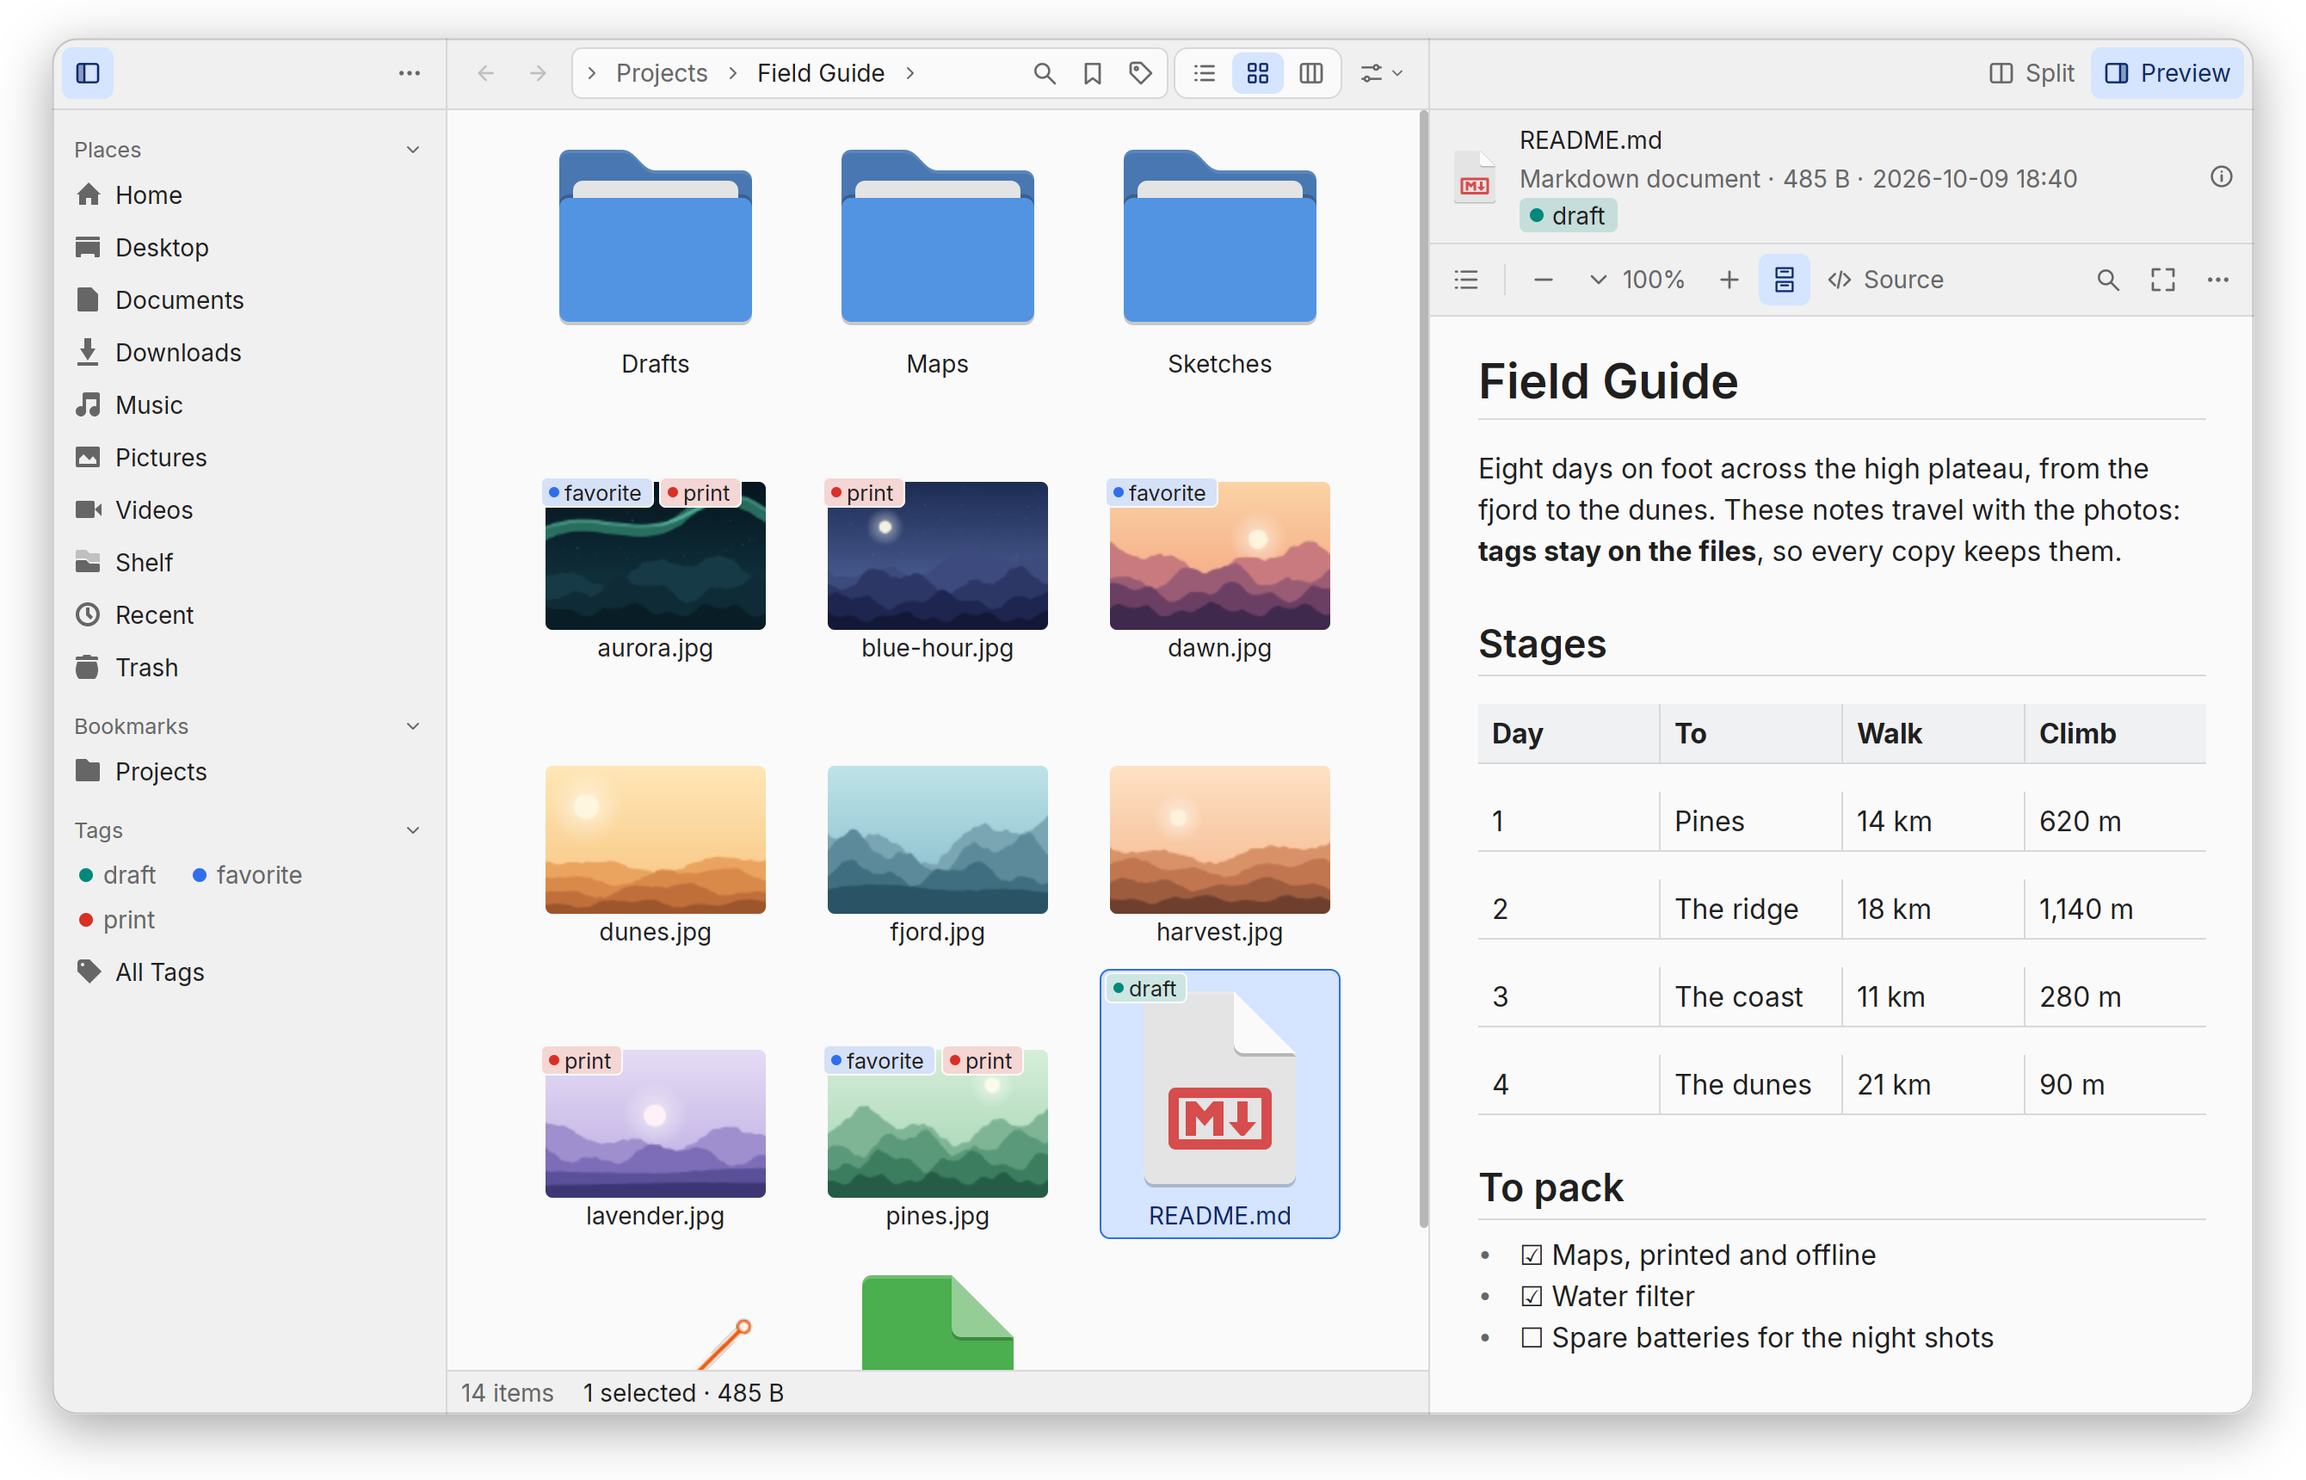
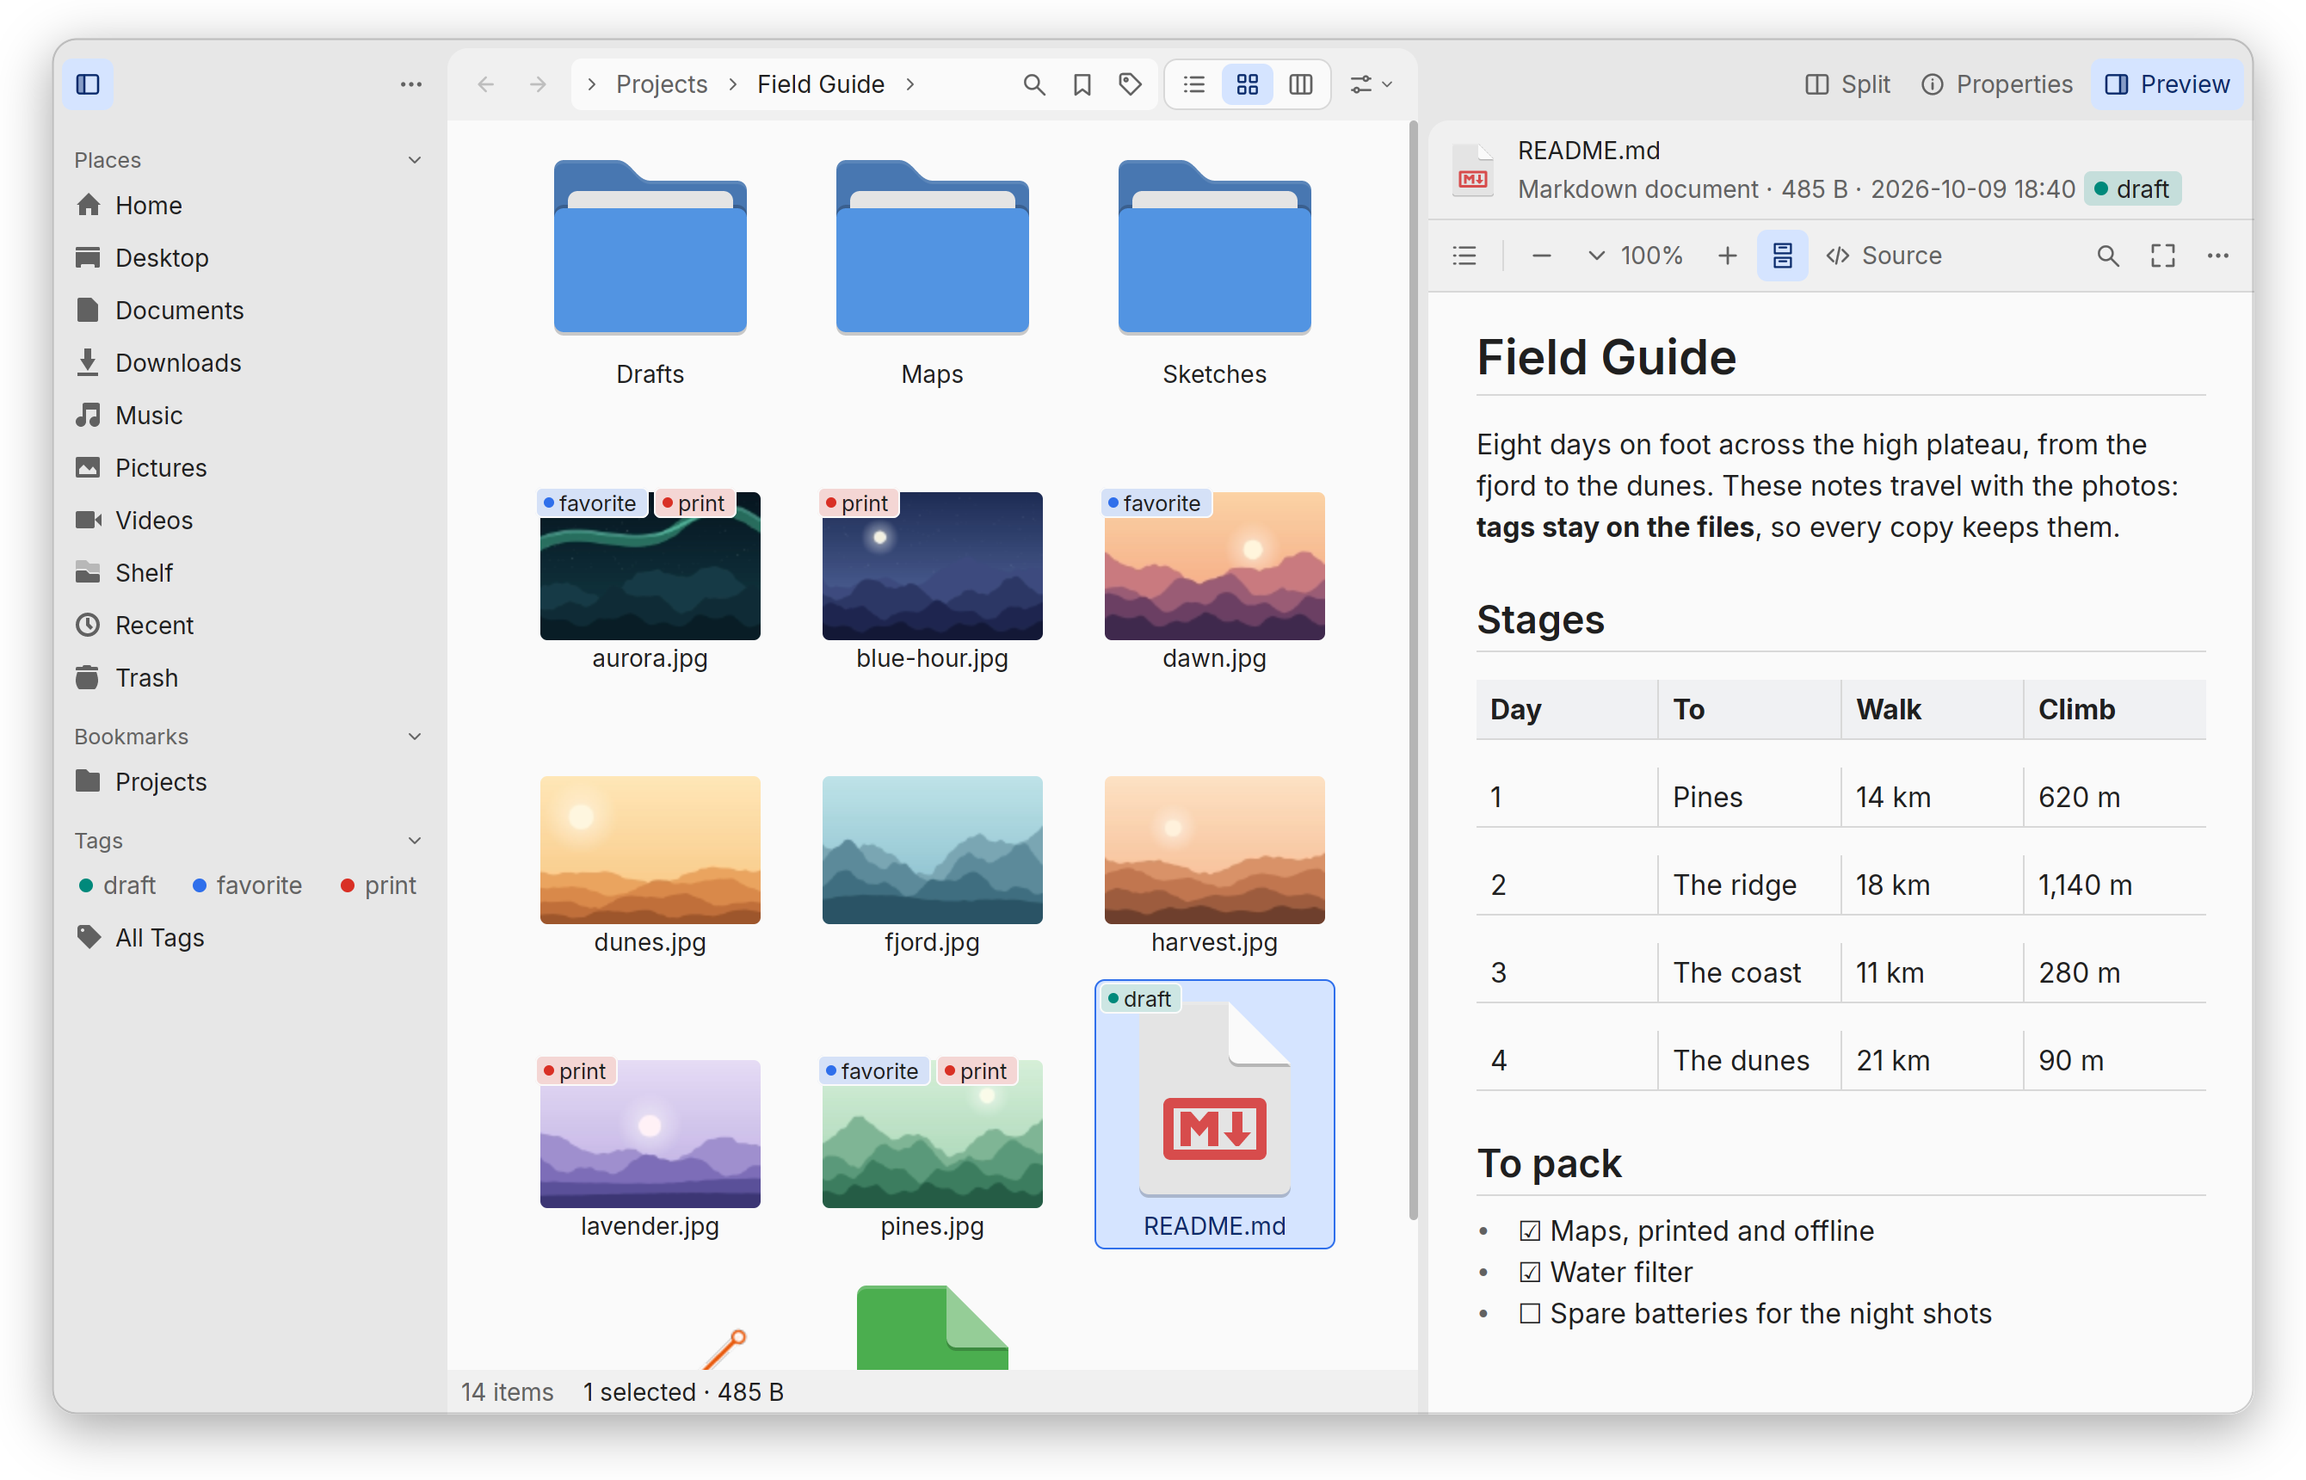
Make Cards the default; accept ADR-123
Cards (ui.cards) is on by default (settings::CARDS_DEFAULT, read by the
switch and Theme::resolve). Off, the window is apart by lines as in
earlier versions: kept as a choice, working but not grown; an area
added is designed as a card first, and the choice is asked again after
a release or two (ADR-123, "Kept, the default").

The switch's description says what it does now and what off gives. The
README's screenshots are made again, in Cards.

fmt, clippy on skwir-ui, its tests (567).

diff --git a/crates/ui/src/settings.rs b/crates/ui/src/settings.rs
@@ -76,6 +76,9 @@ pub const FILES_OPACITY_KEY: &str = "ui.files_background_opacity";
 pub const PREVIEW_OPACITY_KEY: &str = "ui.preview_background_opacity";
 /// The window's areas drawn as cards on its frame (ADR-123).
 pub const CARDS_KEY: &str = "ui.cards";
+/// Cards by default since 2026-11-07; off, the window is apart by lines,
+/// as before.
+pub const CARDS_DEFAULT: bool = true;
 /// The least opacity a ground takes: below it, text over a light
 /// background behind a dark look would no longer read.
 pub const OPACITY_LEAST: i64 = 50;
@@ -440,20 +443,20 @@ fn fonts_from_spec() -> SettingSpec {
     ))
 }
 
-/// The theme's look: Automatic (the desktop's preference, saying the look
-/// it comes to once the window resolved it), Light or Dark.
 /// `ui.cards`: the window's areas as cards on its frame, or apart by
 /// lines (ADR-123).
 fn cards_spec() -> SettingSpec {
     SettingSpec::toggle(
         CARDS_KEY,
         "Cards",
-        "Draw the panes, the preview and the terminal as rounded cards on the window's frame, apart by a gutter rather than by lines; the sidebar and the tabs lie on the frame. The pane commands act on, while the window is split, wears a ring of the accent. The gutter between two cards is the edge to drag.",
-        false,
+        "Draw the panes, the preview's parts and the terminal as cards on the window's frame, apart by a gutter rather than by lines; the sidebar, the tabs and the window's buttons lie on the frame. While the window is split, the active pane's row is underlined and the other pane a shade darker. The gutter between two cards is the edge to drag. Off, the window's areas are apart by lines, as in earlier versions.",
+        CARDS_DEFAULT,
     )
     .essential()
 }
 
+/// The theme's look: Automatic (the desktop's preference, saying the look
+/// it comes to once the window resolved it), Light or Dark.
 fn theme_spec() -> SettingSpec {
     SettingSpec::choice(
         THEME_KEY,

diff --git a/crates/ui/src/theme.rs b/crates/ui/src/theme.rs
@@ -1214,7 +1214,7 @@ impl Theme {
         if app
             .settings
             .get::<bool>(crate::settings::CARDS_KEY)
-            .unwrap_or(false)
+            .unwrap_or(crate::settings::CARDS_DEFAULT)
         {
             theme.as_cards();
         }

diff --git a/docs/adr/README.md b/docs/adr/README.md
@@ -136,4 +136,4 @@ them by topic.
 | [120](120-a-folder-appears-whole.md) | A folder opened appears whole: nothing of it shown until its listing completes, however long (the pane there at once, its view empty, "Loading… N items" after 200 ms); filled and sorted on a worker (`Listing::filled_elsewhere`, `FillJob`: short jobs applying what is queued, the listing taken whole by the pump under the same id); a failure shows what came; what streams (`LocationProvider::streams`: searches, the Trash of every volume, servers nearby) shows as it comes; the folders kept beside the pane's own the same; refresh keeps what is shown; the old view never held longer (tabs keep 018's 150 ms); no streaming past a second; amends 000 | built on Linux, 2026-11-06; macOS and Windows compiled only |
 | [121](121-an-order-asked-anew-is-made-on-a-worker.md) | An order asked anew of a listing shown (a column's header, the direction, hidden files) is made on a worker (`Listing::sort_job`, `SortJob`: the entries shared by `Arc`, the listing's events waiting until the order is back), the order before shown meanwhile and kept current (`Listing::order_shown`, read by everything that acts on a pane's order); the last asked wins; changed under it, sorted again; a listing with no order yet, or whose order no longer holds (renamed or hidden in place, companions), still sorted on the window's thread | built on Linux, 2026-11-06; macOS and Windows compiled only |
 | [122](122-windows-of-one-program.md) | Windows of one program: windows are core data (each with its tabs and shown tab, one active, where commands naming no pane act); `window.new/close/select/list`, `tab.move` to a window or a new one, a window's last tab closing it, tabs and windows reopened from one list; one queue, History, Activity, player and channel for the program, each window its own tabs and panels; Ctrl+N, Open in New Window, Move to New Window (no tab dragged between windows); launches always handed to the running Skwir of the same build, files and display (a tab instead by a setting, `--new-instance` apart); every window remembered as it changes; amends 018, 043, 056, 115 | built on Linux, 2026-11-07, in steps (the core, the windows, launches; tabs dragged between windows built and withdrawn); Windows' hand-over under Wine, Windows compiled, macOS's UI not compiled |
-| [123](123-the-window-s-areas-as-cards.md) | The window's areas as cards, an experiment behind a switch (`ui.cards`, off): the panes, the preview and the terminal rounded cards on the window's frame (`frame`, under both grounds by 1.08:1, giving way to text; painted once, around rounded holes while see-through), apart by 8 px gutters that are the edges dragged, the sidebar and the tabs on the frame, no lines between areas; content kept within a card's corners (gpui 0053, rounded content masks); the gutter around them gone where the window is tiled (gpui 0054, `Window::tiling`); the active pane of a split ringed by the accent; no shadow; amends 071, 119 | built on Linux, 2026-11-07, off by default; macOS and Windows compiled only |
+| [123](123-the-window-s-areas-as-cards.md) | The window's areas as cards, the default (`ui.cards`, on; off, apart by lines as before, kept working, new areas designed as cards first): the panes, the preview's parts (Properties with the header, the preview, an archive's rows and member, the pinned player) and the terminal cards on the window's frame (`frame`, under both grounds by 1.08:1, giving way to text; painted once, around holes while see-through, its curves the exact complement of the cards': gpui 0055), apart by 6 px gutters that are the edges dragged, running to the window's edges but at the top (none tiled: gpui 0054, `Window::tiling`); the sidebar, the tabs and the window's buttons on the frame (in notches of a pane's row, or above the preview); content kept within a card's corners (gpui 0053); a split's active pane underlined, the other a shade down; no shadow; amends 071, 119 | built on Linux, 2026-11-07, the default the same evening; macOS and Windows compiled only |

diff --git a/docs/adr/123-the-window-s-areas-as-cards.md b/docs/adr/123-the-window-s-areas-as-cards.md
@@ -1,8 +1,9 @@
 # ADR-123: The window's areas as cards
 
-Status: accepted 2026-11-07 with the user as an experiment behind a
-switch (`ui.cards`, off), built on Linux; macOS and Windows compiled
-only; amended the same evening as tried (Amendments). Amends ADR-071
+Status: accepted 2026-11-07 with the user, the default since that
+evening (`ui.cards`, on; off, the window apart by lines as before);
+built on Linux, macOS and Windows compiled only; amended the same
+evening as tried (Amendments). Amends ADR-071
 (tokens of a look: `frame`, `sunken_bg`, `sunken_surface`) and ADR-119
 (the frame is one of the window's grounds).
 
@@ -35,9 +36,10 @@ only; amended the same evening as tried (Amendments). Amends ADR-071
 
 ## Decision
 
-1. **One switch, off by default.** Settings › Appearance › Cards
-   (`ui.cards`, essential): the window as cards on its frame, or as it
-   was, apart by lines. Off, the window is drawn as before.
+1. **One switch, on by default** (since the amendment "Kept, the
+   default"). Settings › Appearance › Cards (`ui.cards`, essential): the
+   window as cards on its frame, or as it was, apart by lines. Off, the
+   window is drawn as before.
 2. **The frame is a token of the look.** `frame` lies under both
    grounds, darker than the darker by `CHROME` (1.08:1), its hue kept:
    under the bars' gray in a light look, under the files in a dark one
@@ -188,4 +190,18 @@ preview's bar, inside the cards. Tried by the user the same evening:
   chrome's, what it shows the preview's.
 - **Consequences:** a gutter more (6 px) between each two of them; no
   line inside the panel. Peek, drawn over the window, keeps its own.
+
+### 2026-11-07: kept, the default
+
+- **Decided** (the user, having tried every step): Cards is kept and is
+  the default (`settings::CARDS_DEFAULT`); this record is accepted as
+  such.
+- **The look apart by lines stays a choice**, the same switch off: some
+  prefer a denser window or the one they knew, and a look taken away in
+  the release that changes it is the hardest way to change it (Firefox's
+  islands drew requests to turn them off, Mozilla Connect, 2026-03). It
+  is kept working, not grown: an area added from now on is designed as a
+  card first, and given the lines look only as far as it needs to work
+  there. Whether to keep the choice is asked again after a release or
+  two, from what is said of it.
 

diff --git a/docs/PLAN.md b/docs/PLAN.md
@@ -795,7 +795,8 @@ wake draws only the windows it concerns. Checks in `docs/STATUS-LOG.md` (2026-11
 ## The window's areas as cards (2026-11-07)
 
 ADR-123, asked by the user after four directions drawn on a canvas: an
-experiment behind Settings › Appearance › Cards (`ui.cards`, off). The
+experiment behind Settings › Appearance › Cards (`ui.cards`), the default
+since the same evening. The
 panes, the preview and the terminal are cards on the window's frame, a
 token of every look under both grounds (`frame`, giving way to the text
 drawn on it), apart by 6 px gutters that are the edges dragged, running
@@ -829,12 +830,12 @@ every system (the pointer's grab on X11 and Windows, a dragging session
 on macOS; Wayland's own) before it comes back (ADR-122, Rejected).
 macOS's UI is not compiled.
 
-**Cards** (ADR-123, 2026-11-07): the user's to keep or drop; if kept,
-the default and the ADR's status change. Not seen under a compositor's
-blur, nor what Hyprland says of a tiled window's top; a pixel's seam along
-each card's arcs and notches while the window lets the desktop through. Metal's shaders (gpui 0053) are
-compiled nowhere here, and Direct3D's only by DXC (Wine's compiler takes
-neither gpui's shaders nor these). 3D models keep a rectangular clip.
+**Cards** (ADR-123, the default since 2026-11-07): whether the look apart
+by lines stays a choice is asked again after a release or two. Not seen
+under a compositor's blur, nor what Hyprland says of a tiled window's top.
+Metal's shaders (gpui 0053, 0055) are compiled nowhere here, and
+Direct3D's only by DXC (Wine's compiler takes neither gpui's shaders nor
+these). 3D models keep a rectangular clip.
 
 **Planned** (in the sections below): Indexing and AI (Phase 7, designed
 2026-10-26: ADR-089 to ADR-095); [Grammars and

diff --git a/docs/STATUS-LOG.md b/docs/STATUS-LOG.md
@@ -13017,3 +13017,19 @@ amended).
   tall as it says over the reason's card.
 - **Checked:** fmt; clippy on skwir-ui; its tests (567).
 
+## 2026-11-07: Cards kept, the default (ADR-123 accepted)
+
+- **Decided** (the user): keep Cards, accept ADR-123, make it the
+  default; asked whether to keep the look apart by lines as a choice.
+  Kept (my recommendation): it works and stays as it was; it is not
+  grown, an area added is designed as a card first; asked again after a
+  release or two.
+- **Built:** `settings::CARDS_DEFAULT` (true), read by the switch's spec
+  and `Theme::resolve`; the switch's description says what off gives.
+  ADR-123's status and a "Kept, the default" amendment; the ADR index,
+  PLAN, CHANGELOG and shell.md say so. The README's screenshots made
+  again (`tools/screenshots/readme.py --skwir target/debug/skwir`, the
+  debug build in place of a release one: the disk had 10 GB), looked at
+  before committing.
+- **Checked:** fmt; clippy on skwir-ui; its tests (567).
+

diff --git a/docs/invariants/shell.md b/docs/invariants/shell.md
@@ -389,7 +389,9 @@ of bars, split or not.
   on has its row underlined in the accent and the other's grounds step
   down (`Shell::lowered`, `Theme::files_ground`, `bar_ground`): what paints
   a pane's ground asks them, never `window_bg` or `window_surface`. Apart
-  by lines, the window is drawn as before.
+  by lines, the window is drawn as before: kept working, not grown. An
+  area added is designed as a card first, and given the lines look only
+  as far as it needs to work there (ADR-123, "Kept, the default").
 - **As cards, the preview panel is cards** (`preview::cards_under`), never
   one: Properties with the header, the preview with its toolbar, a
   container's kept rows and its member (`members::split`), the pinned

diff --git a/CHANGELOG.md b/CHANGELOG.md
@@ -2,8 +2,9 @@
 
 ## Unreleased
 
-- **Cards** (Settings › Appearance, off by default, an experiment): the panes,
-  the preview and the terminal are drawn as cards on the window's frame, a
+- **Cards, the new look** (Settings › Appearance › Cards, on by default; off
+  gives the window of earlier versions, apart by lines): the panes,
+  the preview's parts and the terminal are drawn as cards on the window's frame, a
   shade under both of its grounds, apart by a 6 px gutter rather than by
   lines; the sidebar and the tabs lie on the frame. The cards run to the
   window's edges, the top excepted, where the frame's own row is, square where
